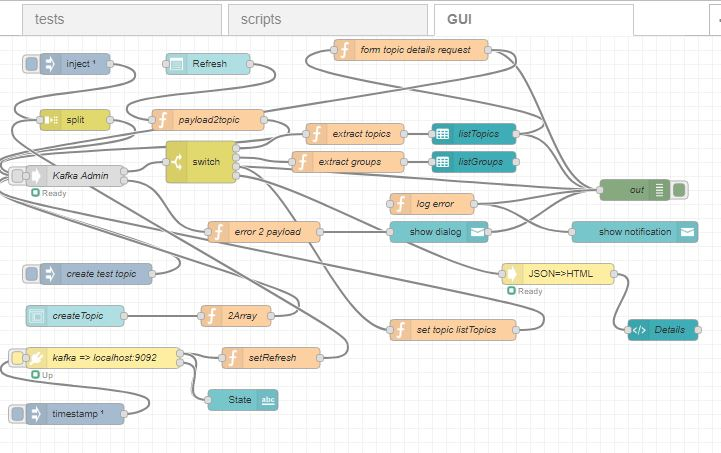
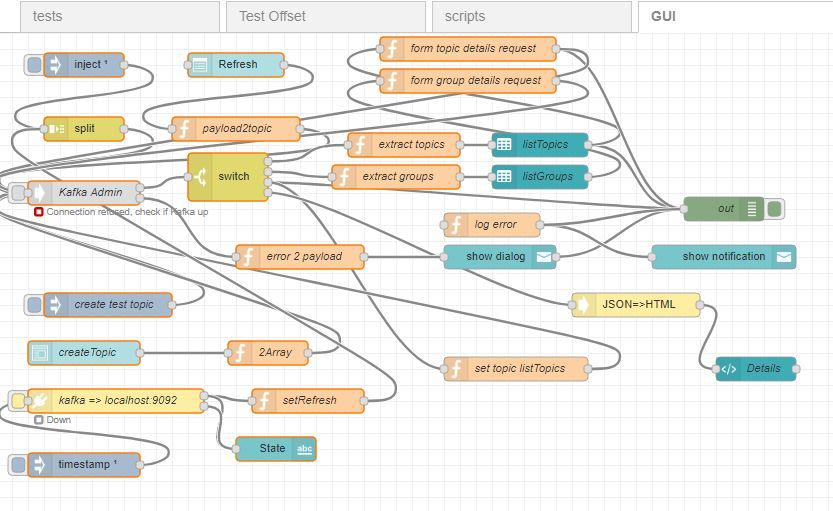
Add in documentation of new parts.  Next base for publishing.

Changed region(s): [[0.0, 0.0, 1.0, 0.9581], [0.9764, 0.0618, 1.0, 0.0927]]

diff --git a/kafkaManager/kafkaProducer.js b/kafkaManager/kafkaProducer.js
@@ -1,21 +1,22 @@
+const nodeLabel="Kafka Producer";
 const ts=(new Date().toString()).split(' ');
-console.log([parseInt(ts[2],10),ts[1],ts[4]].join(' ')+" - [info] Kafka Producer Copyright 2019 Jaroslav Peter Prib");
+console.log([parseInt(ts[2],10),ts[1],ts[4]].join(' ')+" - [info] "+nodeLabel+" Copyright 2019 Jaroslav Peter Prib");
 
 const debugOff=(()=>false);
 function debugOn(m) {
 	const ts=(new Date().toString()).split(' ');
-	const label="Kafka Producer";
 	if(!debugCnt--) {
-		console.log([parseInt(ts[2],10),ts[1],ts[4]].join(' ')+" - [debug] "+label+" debugging turn off");
+		console.log([parseInt(ts[2],10),ts[1],ts[4]].join(' ')+" - [debug] "+nodeLabel+" debugging turn off");
 		debug=debugOff;
 	}
 	if(debugCnt<0) {
 		debugCnt=100;
-		console.log([parseInt(ts[2],10),ts[1],ts[4]].join(' ')+" - [debug] "+label+" debugging next "+debugCnt+" debug points");
+		console.log([parseInt(ts[2],10),ts[1],ts[4]].join(' ')+" - [debug] "+nodeLabel+" debugging next "+debugCnt+" debug points");
 	}
-	console.log([parseInt(ts[2],10),ts[1],ts[4]].join(' ')+" - [debug] "+label+" "+(m instanceof Object?JSON.stringify(m):m));
+	console.log([parseInt(ts[2],10),ts[1],ts[4]].join(' ')+" - [debug] "+nodeLabel+" "+(m instanceof Object?JSON.stringify(m):m));
 }
 let debug=debugOn,debugCnt=100;
+
 
 let kafka;
 
@@ -92,6 +93,7 @@ function setInError(node,errmsg) {
 
 function connect(node) {
 	debug({label:"connect",node:node.id});
+	if(!node.client) node.client = node.brokerNode.getKafkaClient();
 	node.producer = new kafka[(node.connectionType||"Producer")](node.client,
 		{
 				// Configuration for when to consider a message as acknowledged, default 1
@@ -126,7 +128,6 @@ module.exports = function(RED) {
    			if(!kafka) {
    				kafka = node.brokerNode.getKafkaDriver();
    			}
-   			node.client = node.brokerNode.getKafkaClient();
    			node.brokerNode.onStateUp.push({node:node,callback:function(){connect(node);}});  //needed due to bug in kafka driver
     	} catch (e) {
 			node.error(e.message);
@@ -149,5 +150,5 @@ module.exports = function(RED) {
        		done();
    		});
     }
-    RED.nodes.registerType("Kafka Producer",KafkaProducerNode);
+    RED.nodes.registerType(nodeLabel,KafkaProducerNode);
 };

diff --git a/kafkaManager/kafkaOffset.js b/kafkaManager/kafkaOffset.js
@@ -1,19 +1,19 @@
-const label="Kafka Offset";
+const nodeLabel="Kafka Offset";
 const ts=(new Date().toString()).split(' ');
-console.log([parseInt(ts[2],10),ts[1],ts[4]].join(' ')+" - [info] "+label+" Copyright 2019 Jaroslav Peter Prib");
+console.log([parseInt(ts[2],10),ts[1],ts[4]].join(' ')+" - [info] "+nodeLabel+" Copyright 2019 Jaroslav Peter Prib");
 
 const debugOff=(()=>false);
 function debugOn(m) {
 	const ts=(new Date().toString()).split(' ');
 	if(!debugCnt--) {
-		console.log([parseInt(ts[2],10),ts[1],ts[4]].join(' ')+" - [debug] "+label+" debugging turn off");
+		console.log([parseInt(ts[2],10),ts[1],ts[4]].join(' ')+" - [debug] "+nodeLabel+" debugging turn off");
 		debug=debugOff;
 	}
 	if(debugCnt<0) {
 		debugCnt=100;
-		console.log([parseInt(ts[2],10),ts[1],ts[4]].join(' ')+" - [debug] "+label+" debugging next "+debugCnt+" debug points");
+		console.log([parseInt(ts[2],10),ts[1],ts[4]].join(' ')+" - [debug] "+nodeLabel+" debugging next "+debugCnt+" debug points");
 	}
-	console.log([parseInt(ts[2],10),ts[1],ts[4]].join(' ')+" - [debug] "+label+" "+(m instanceof Object?JSON.stringify(m):m));
+	console.log([parseInt(ts[2],10),ts[1],ts[4]].join(' ')+" - [debug] "+nodeLabel+" "+(m instanceof Object?JSON.stringify(m):m));
 }
 let debug=debugOn,debugCnt=100;
 
@@ -135,10 +135,10 @@ module.exports = function(RED) {
        		done();
    		});
     }
-    RED.nodes.registerType(label,KafkaOffsetNode);
+    RED.nodes.registerType(nodeLabel,KafkaOffsetNode);
     RED.httpAdmin.get("/KafkaOffset/:id/:action/", RED.auth.needsPermission("KafkaOffset.write"),  function(req,res) {
     	var node = RED.nodes.getNode(req.params.id);
-    	if (node && node.type===label) {
+    	if (node && node.type===nodeLabel) {
     		if(!node.connected) {
            		node.brokerNode.connect(node,"Admin",(err)=>{
         	        node.error(err);

diff --git a/kafkaManager/kafkaOffset.html b/kafkaManager/kafkaOffset.html
@@ -1,6 +1,44 @@
 <script type="text/x-red" data-help-name="Kafka Offset">
     <p>Get a connection for the message to be used in following nodes</p>
     <p>On successfully getting connection message sent OK out otherwise send to failed connector</p>
+    <h3>fetch payload</h3> 
+    <pre>
+[
+    {
+        "topic": "test",
+        "partition": 0,
+        "maxNum": 100
+    }
+]
+    </pre>
+    <h3>fetchEarliestOffset payloads</h3> 
+    <pre>
+[
+    {
+        "topic": "test"
+    }
+]
+    </pre>
+    <h3>fetchLatestOffsets payload</h3> 
+    <pre>
+[
+    {
+        "topic": "test"
+    }
+]
+    </pre>
+    <h3>fetchCommits payload</h3> 
+    <pre>
+{
+    "groupid": "aGroup",
+    "topics": [
+        {
+            "topic": "test"
+        }
+    ]
+}
+    </pre>
+    
 </script>
 
 <script type="text/x-red" data-template-name="Kafka Offset">

diff --git a/kafkaManager/kafkaAdmin.js b/kafkaManager/kafkaAdmin.js
@@ -16,10 +16,11 @@ function debugOn(m) {
 }
 let debug=debugOn,debugCnt=100;
 
-function msgProcess(node,msg,err,data) {
-	debug({label:"msgProcess",error:err,data:data});
+function msgProcess(node,msg,e,data) {
+	debug({label:"msgProcess",error:e,data:data});
 	if(err) {
-		if(err.startWith("Broker not available")) {
+		let err=typeof err !=="string"?e:err.message;
+		if(err.startWith("Broker not available") || err.startWith("Request timed out")) {
 			node.warn("Broker not available, queue message and retry connection");
 			node.waiting.push(msg);
        		node.brokerNode.connect(node,"Admin",(err)=>{

diff --git a/kafkaManager/kafkaBroker.js b/kafkaManager/kafkaBroker.js
@@ -207,6 +207,7 @@ module.exports = function(RED) {
     		if(node.credentials.has_password) {
     			options.sasl={ mechanism: 'plain', username: this.credentials.user, password: node.credentials.password };
     		}
+    		node.getKafkaDriver();
     		debug({label:"getKafkaClient",options:options});
         	return new kafka.KafkaClient(options);
         });

diff --git a/README.md b/README.md
@@ -11,6 +11,8 @@ First initial release using [kafka-node][4] .
 
 Has a test GUI which allows topics to be added.
 
+Note: all nodes run in debug mode for 100 messages then turns off.
+
 ------------------------------------------------------------
 
 ## Kafka Broker
@@ -52,7 +54,9 @@ Consumer of topic messages in kafka which are generated into node-red message.
 
 ## Kafka Offset
 
-Dymanically get messages in Kafka
+Get various offsets from Kafka. Which type are set via msg.action or msg.topic.  msg.payload states the types of options.
+
+
 
 ![Kafka Offset](documentation/offset.JPG "Kafka Offset")
 
@@ -107,7 +111,9 @@ Includes sample script for start kafka in windows using node-red
 
 # Version
 
-0.2.0 Add ndoes consumer group and offset.
+0.2.0 Add nodes consumer group and offset.
+	Another fix to issue with initial no kafka.
+	describe groups implemented
 
 0.1.0 Add in High level producer/consumer.
   	Further fixes to make connection more robust on kafka up/down
